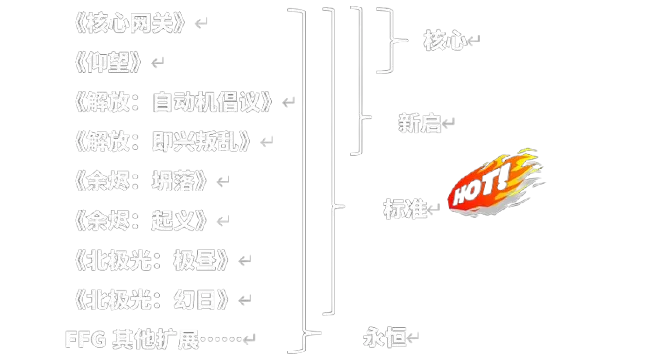
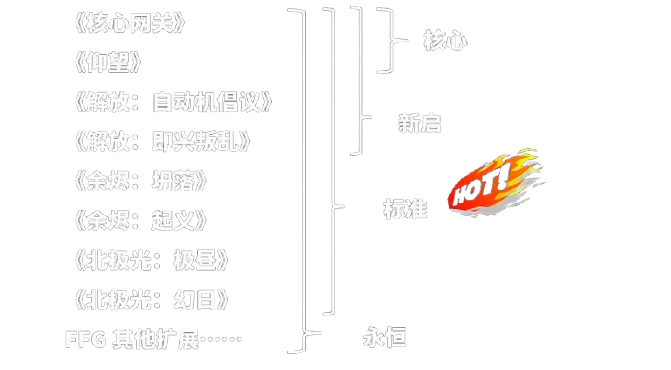
fix: 环境样式修改

diff --git a/src/pages/ENVIRONMENT/style.less b/src/pages/ENVIRONMENT/style.less
@@ -430,10 +430,12 @@
 .cycleText {
   text-align: center;
   font-size: 24px;
-  font-weight: 800;
   color: #ffffff;
   line-height: 1.4;
-  margin: 0 100px;
+  margin: 10px 90px;
+  background: linear-gradient(141deg, #3734349e, transparent);
+  padding: 5px 10px;
+  border-radius: 4px;
 
   p {
     margin-bottom: 5px;
